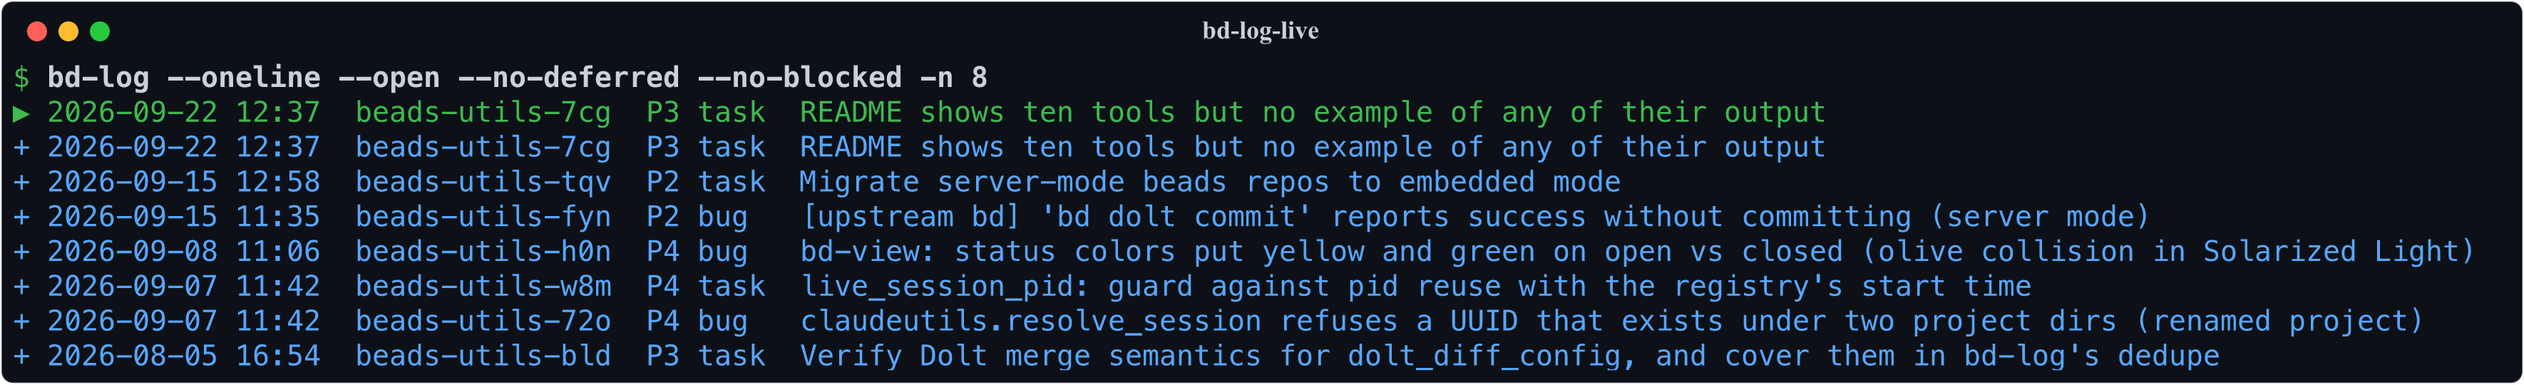
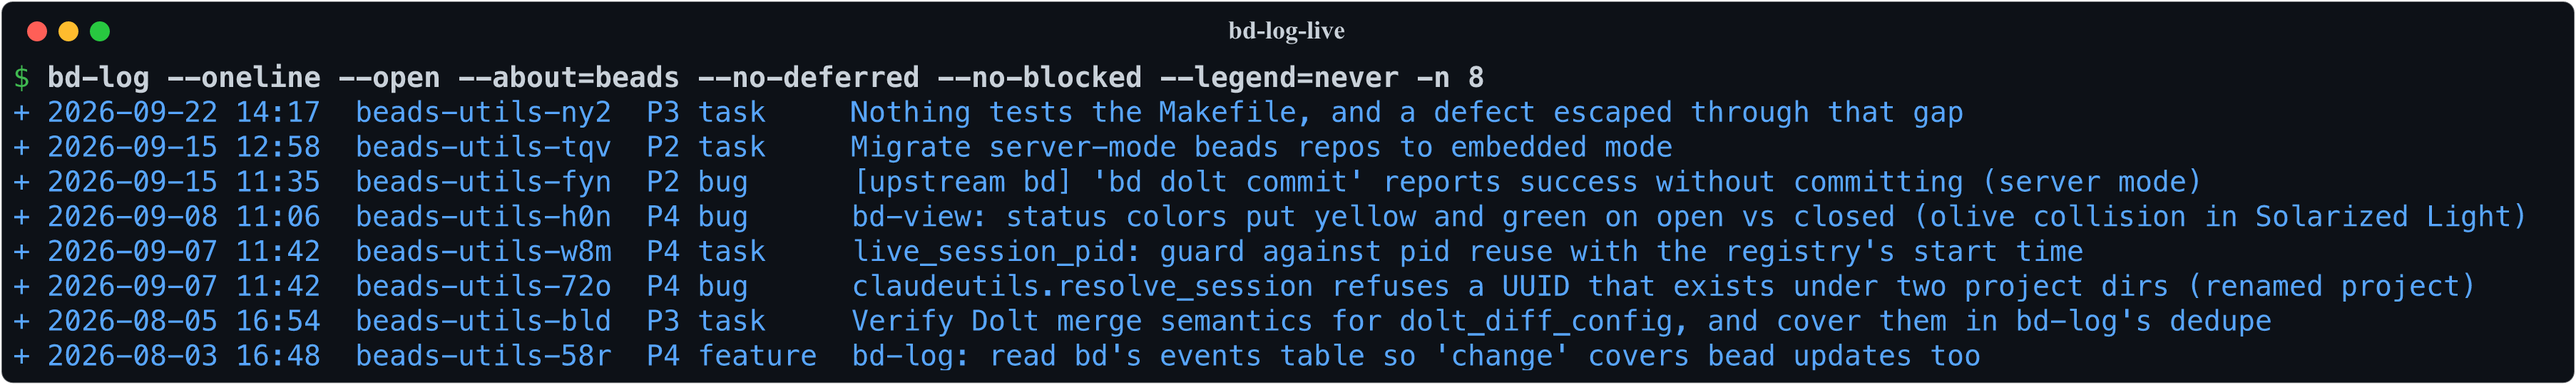
Harden make install/uninstall and the screenshot renderer (beads-utils-8ph)
Post-close review pass over beads-utils-8ph and beads-utils-7cg: self-review
plus a cold read of the diff by a reviewer with none of the session's context.

Makefile:
 - uninstall counted every removal as a success and ended in `echo`, so a
   permission-denied run printed "Removed 10" and exited 0. It now counts only
   what it removed and fails if anything resisted.
 - install's `ln` loop had no error propagation; a non-final failure was
   swallowed and it still claimed "Linked 10". Now aborts.
 - uninstall iterated the scripts that exist *now*, so one renamed or dropped
   since install stayed behind as a dangling link while the count implied a
   complete removal. It now scans PREFIX for links back into this clone.
 - PREFIX: a trailing slash made the PATH check unable to match, reporting a
   directory as absent from a PATH it was on; empty and `~user` forms reached
   `mkdir` and recreated the literal-`~`-directory bug f066e16 fixed. Trailing
   slashes are stripped, and check-prefix refuses what make cannot expand
   rather than guessing at another user's home.

tools/make-screenshots.py:
 - capture() discarded stderr and the exit status, so a renamed bead would
   have failed with "no output from ..." and the real cause already thrown
   away. stderr is kept and reported; check=True stays off because
   bd-dolt-check exits 1 by design in the state its shot depicts.
 - Both SVG rewrites returned their input unchanged on no match, so a rich
[…]

diff --git a/tools/make-screenshots.py b/tools/make-screenshots.py
@@ -7,8 +7,14 @@
 
 Not a screen capture. Each command is run with ``--color=always`` into a
 pipe, and the ANSI it emits is rendered deterministically: rich turns it
-into an SVG, which resvg rasterizes. Nothing depends on anyone's terminal,
-so the images are reproducible on any machine.
+into an SVG, which resvg rasterizes. Nothing depends on anyone's terminal
+settings, and every viewer sees the same finished raster.
+
+Layout is machine-independent (rich lays out from font_aspect_ratio, not from
+font metrics), but the pixels are not: the font stack below prefers Menlo,
+which ships only on macOS, so a Linux run rasterizes with DejaVu Sans Mono.
+Same columns, different glyph shapes — regenerate on one machine or expect a
+cosmetic diff.
 
 ``resvg-py`` rather than ``cairosvg``: both rasterize correctly, but
 cairosvg needs a system libcairo while resvg-py is a pure Rust binary
@@ -19,12 +25,14 @@ Run it through ``make screenshots`` rather than directly.
 """
 from __future__ import annotations
 
+import io
 import re
 import subprocess
 import sys
 from pathlib import Path
 
 import resvg_py
+from rich.cells import cell_len
 from rich.console import Console
 from rich.terminal_theme import TerminalTheme
 from rich.text import Text
@@ -70,7 +78,8 @@ SHOTS = [
     ),
     (
         "bd-log-live",
-        "bd-log --oneline --open --no-deferred --no-blocked -n 8",
+        "bd-log --oneline --open --about=beads --no-deferred --no-blocked"
+        " --legend=never -n 8",
         "./bd-log --oneline --open --about=beads --no-deferred --no-blocked"
         " --color=always --legend=never -n 8 --no-pager",
     ),
@@ -103,15 +112,51 @@ ANSI_RE = re.compile(r"\x1b\[[0-9;]*m")
 
 
 def capture(command: str) -> str:
-    """Run one command in the repo and return the ANSI it printed."""
+    """Run one command in the repo and return the ANSI it printed.
+
+    stderr is kept rather than discarded so a failure names its own cause.
+    The day a bead in SHOTS is renamed, bd-view writes its complaint there and
+    prints nothing to stdout, and "no output from ..." alone would leave you
+    guessing. A blanket check=True would be wrong: bd-dolt-check exits 1 by
+    design when the repo is unpushed, which is the state its shot depicts.
+    """
     done = subprocess.run(
-        command, shell=True, cwd=REPO, text=True,
-        stdout=subprocess.PIPE, stderr=subprocess.DEVNULL,
+        command, shell=True, cwd=REPO, text=True, errors="replace",
+        stdout=subprocess.PIPE, stderr=subprocess.PIPE,
     )
     out = done.stdout.rstrip("\n")
     if not out:
-        sys.exit(f"error: no output from: {command}")
+        why = (done.stderr or "").strip() or f"exit {done.returncode}, no stderr"
+        sys.exit(f"error: no output from: {command}\n  {why}")
     return out
+
+
+# Arguments that exist only because we capture through a pipe, and that a real
+# terminal supplies anyway: color is automatic on a tty, so is paging, so is
+# the legend, and the project path defaults to the current directory. These may
+# be absent from the prompt line. Anything else changes the output, so hiding
+# it would make the prompt a lie about what produced the image.
+SCAFFOLDING = frozenset({"--color=always", "--no-pager", "--legend=always", "."})
+
+
+def check_typed(typed: str, command: str) -> None:
+    """Fail unless the prompt line is the command minus capture scaffolding.
+
+    Compares whole tokens, not substrings: `-n` is a substring of `--no-pager`,
+    so a looser check silently passes. Guards a drift that already happened —
+    bd-log-live's prompt omitted --about=beads, so anyone typing it would have
+    got memory events the image does not show.
+    """
+    expected = [
+        word for word in command.replace("./", "", 1).split()
+        if word not in SCAFFOLDING
+    ]
+    if typed.split() != expected:
+        sys.exit(
+            f"error: prompt line does not match the command\n"
+            f"  shown: {typed}\n"
+            f"  runs:  {' '.join(expected)}"
+        )
 
 
 def prompt_line(typed: str) -> str:
@@ -119,27 +164,51 @@ def prompt_line(typed: str) -> str:
     return f"\x1b[32m$\x1b[0m \x1b[1m{typed}\x1b[0m\n"
 
 
+def _require_change(after: str, before: str, what: str) -> str:
+    """Return *after*, or exit if the substitution matched nothing."""
+    if after == before:
+        sys.exit(f"error: no {what} found in rich's SVG — its template changed")
+    return after
+
+
 def render(ansi: str, title: str, dest: Path) -> None:
     """Render captured ANSI to a PNG at *dest*."""
-    # rich wraps to the console width, which would break entries mid-title,
-    # so size the console to the widest line with its escapes stripped.
-    width = max(len(ANSI_RE.sub("", line)) for line in ansi.split("\n")) + 2
+    # rich wraps to the console width, which would break entries mid-title, so
+    # size the console to the widest line with its escapes stripped. cell_len,
+    # not len: they agree on everything captured today, but the first
+    # double-width glyph or tab would make len under-count and rich would wrap
+    # exactly what this line exists to prevent.
+    width = max(cell_len(ANSI_RE.sub("", line)) for line in ansi.split("\n")) + 2
+    # Console needs somewhere to write; we only ever want the recording, so
+    # give it an in-memory sink rather than leaking a /dev/null handle.
     console = Console(
-        record=True, width=width, force_terminal=True,
-        file=open("/dev/null", "w", encoding="utf-8"),
+        record=True, width=width, force_terminal=True, file=io.StringIO(),
     )
     console.print(Text.from_ansi(ansi))
     svg = console.export_svg(title=title, theme=_theme(), font_aspect_ratio=0.6)
 
-    # rich embeds no font data — it points @font-face at a CDN that GitHub's
-    # CSP blocks, leaving the viewer's own monospace to shift the columns and
-    # tofu the legend glyphs. Drop the remote fetch and name fonts that carry
-    # the glyphs locally; resvg then resolves them at rasterize time, so the
-    # PNG is pixel-exact for every viewer.
-    svg = re.sub(r"@font-face \{.*?\}", "", svg, flags=re.S)
-    svg = svg.replace(
-        "font-family: Fira Code, monospace",
-        "font-family: Menlo, 'DejaVu Sans Mono', monospace",
+    # rich points @font-face at a CDN. resvg does not fetch remote fonts, so
+    # left alone it would fall back to whatever it finds and tofu the legend
+    # glyphs. Drop the remote fetch and name fonts that carry them locally.
+    #
+    # (The CSP argument belongs to the PNG-over-SVG decision, not here: a
+    # viewer receives a finished raster and fetches no fonts at all.)
+    #
+    # Both rewrites are string surgery on a template this script does not own,
+    # and `re.sub`/`str.replace` return the input unchanged when they match
+    # nothing — so a rich release that restyles the template would silently
+    # degrade every PNG. Fail loudly instead; `rich` is unpinned by design,
+    # matching bd-view.
+    svg = _require_change(
+        re.sub(r"@font-face \{.*?\}", "", svg, flags=re.S), svg, "@font-face block",
+    )
+    svg = _require_change(
+        svg.replace(
+            "font-family: Fira Code, monospace",
+            "font-family: Menlo, 'DejaVu Sans Mono', monospace",
+        ),
+        svg,
+        "font-family declaration",
     )
 
     dest.write_bytes(bytes(resvg_py.svg_to_bytes(svg_string=svg, zoom=2.0)))
@@ -149,6 +218,7 @@ def render(ansi: str, title: str, dest: Path) -> None:
 def main() -> None:
     OUT.mkdir(parents=True, exist_ok=True)
     for stem, typed, command in SHOTS:
+        check_typed(typed, command)
         body = prompt_line(typed) + capture(command)
         render(body, stem, OUT / f"{stem}.png")
 
